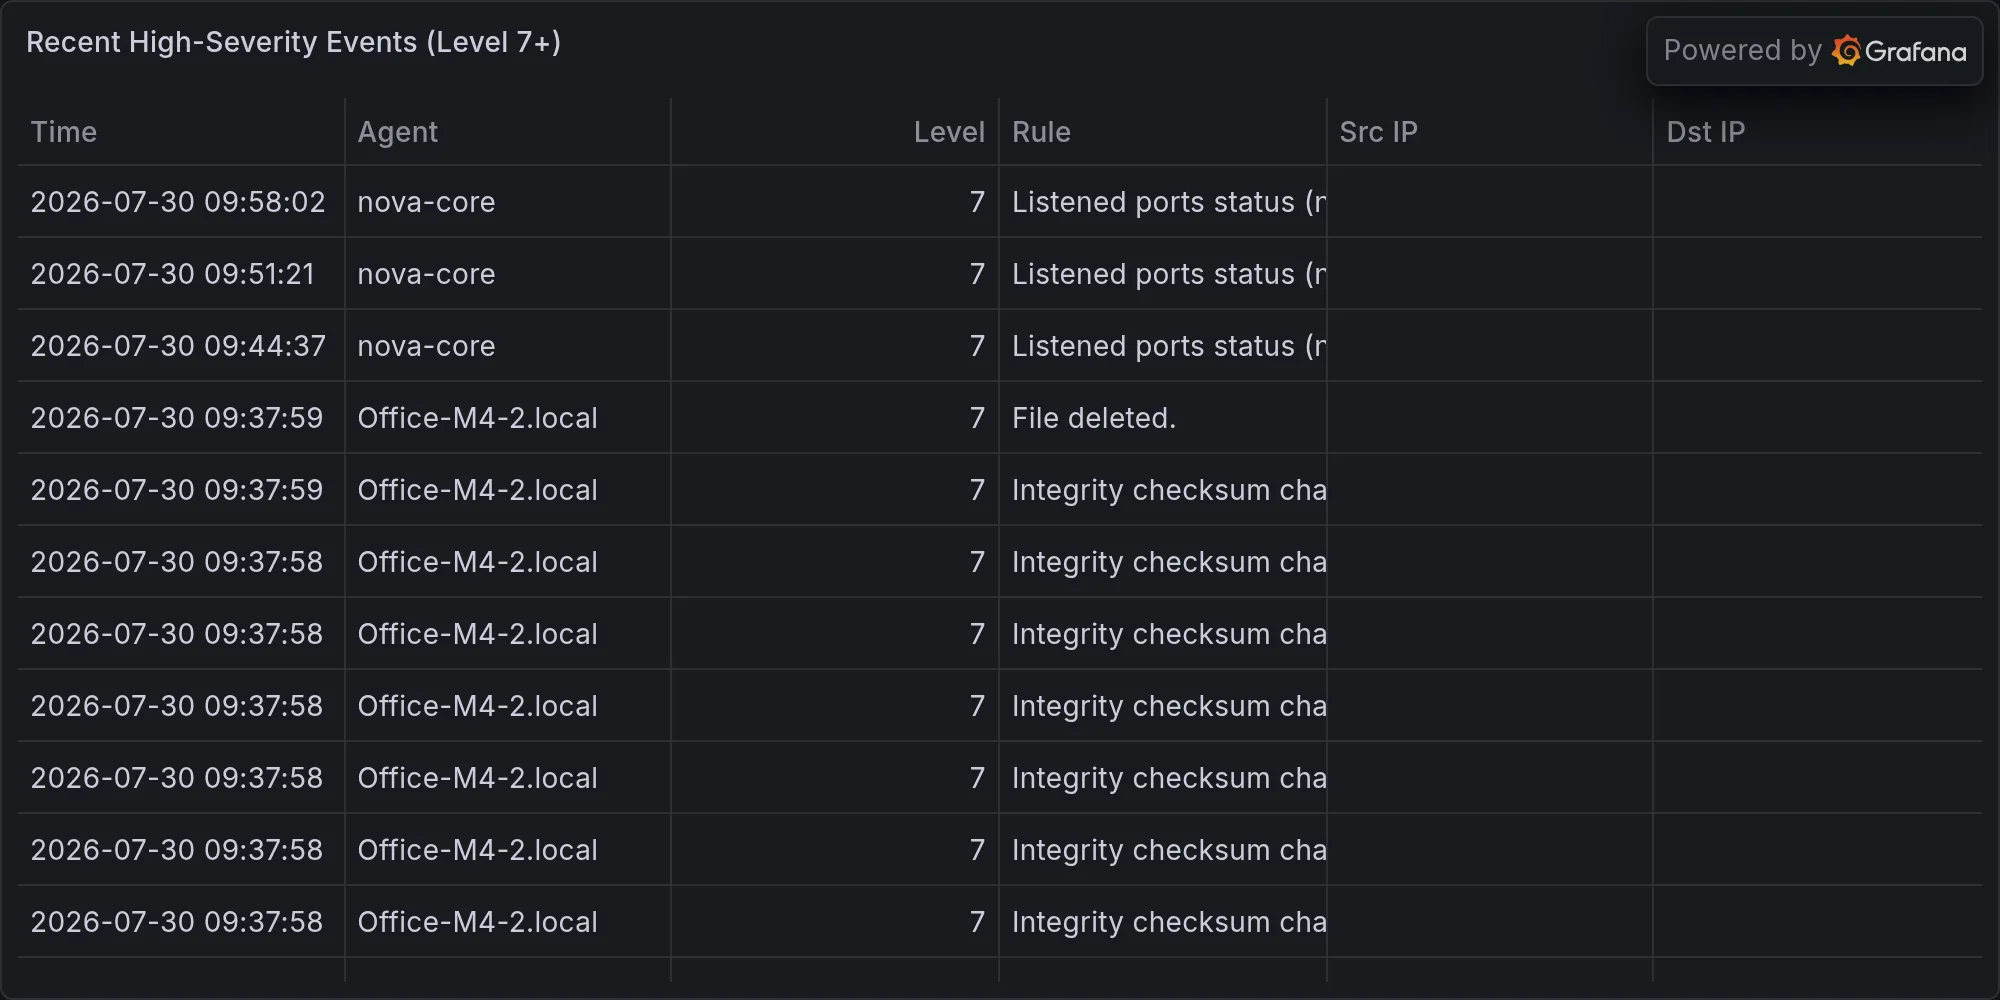
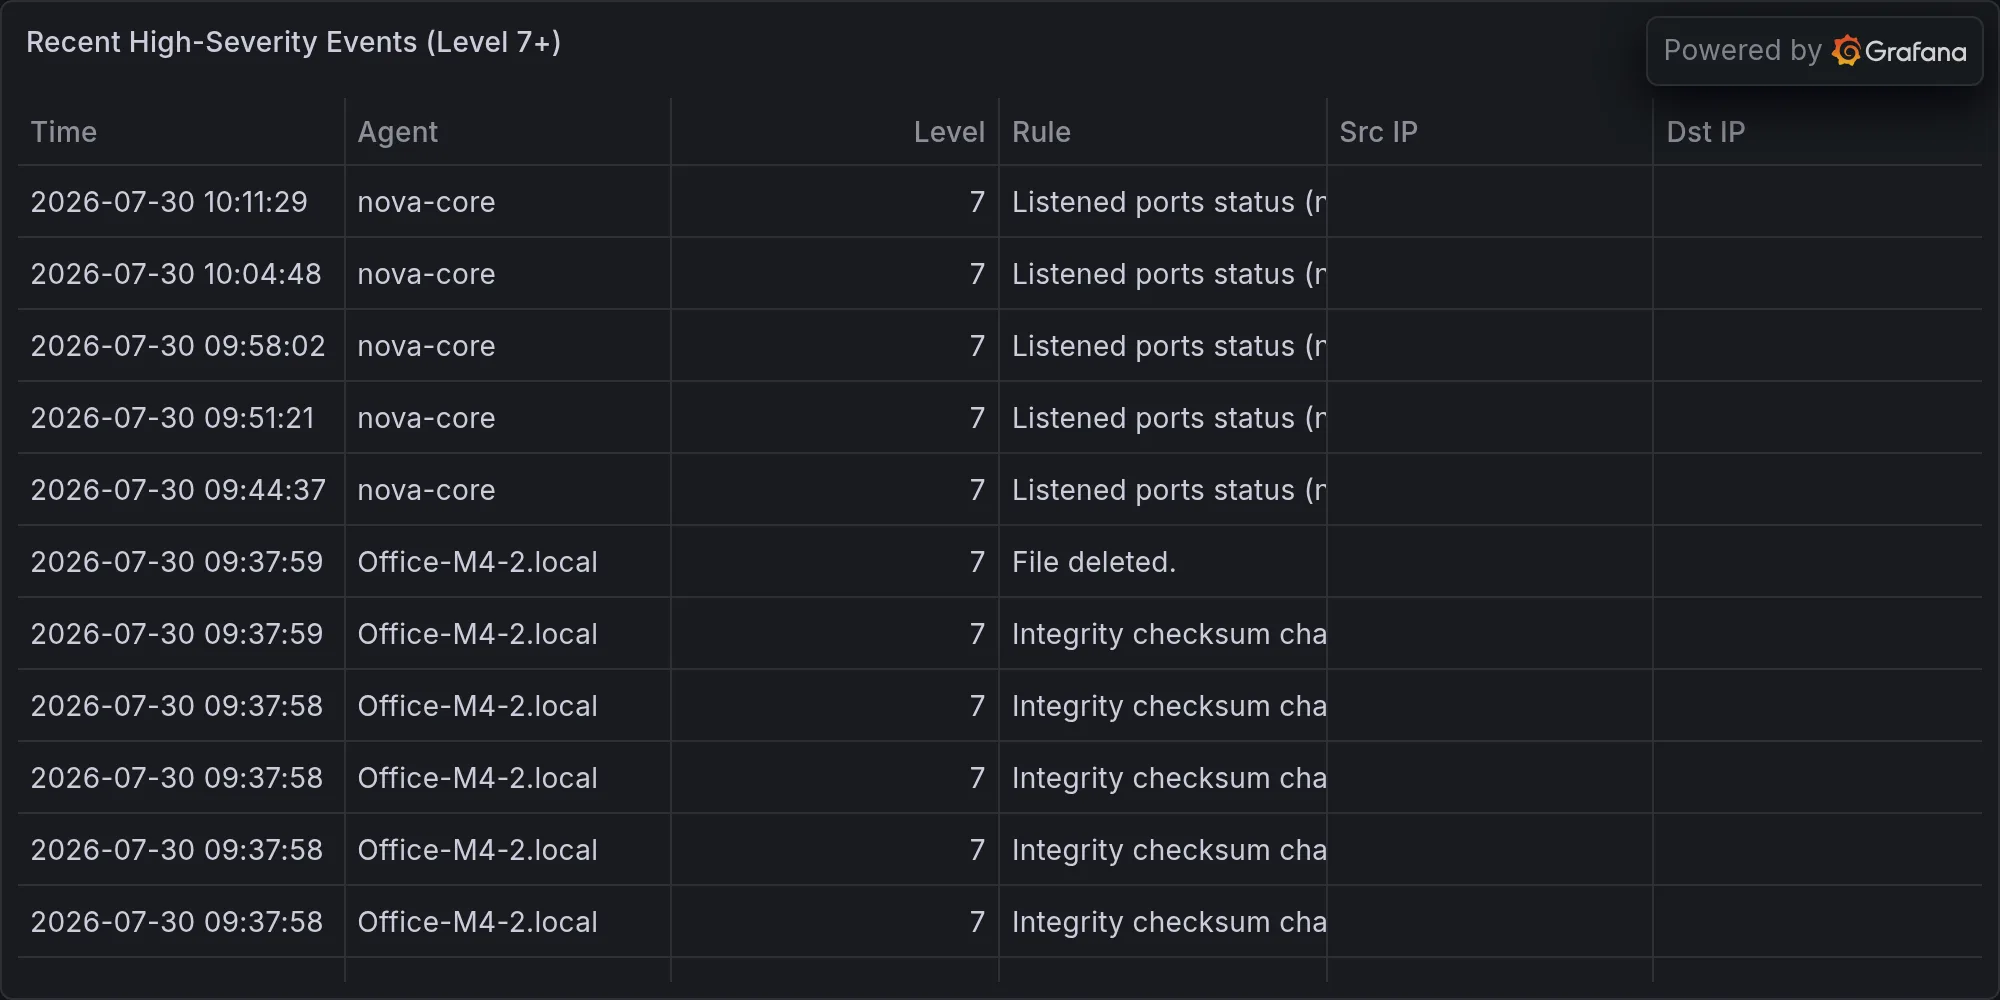
security: 2026-07-30 — **CISCO FMC STATIC CREDENTIALS FLAW ACTIVELY EXPLO

diff --git a/content/operations/2026-07-30-cisco-fmc-static-credentials-flaw-actively-exploited-cve-202.md b/content/operations/2026-07-30-cisco-fmc-static-credentials-flaw-actively-exploited-cve-202.md
@@ -1,0 +1,53 @@
+---
+title: "🛡 **CISCO FMC STATIC CREDENTIALS FLAW ACTIVELY EXPLOITED — CVE-2026-20316**"
+date: 2026-07-30T10:15:22-07:00
+draft: false
+categories: ["operations"]
+tags: ["breaking-alert", "soc-prime-cve-2026-20316", "security"]
+description: "BREAKING: SOC Prime: CVE-2026-20316"
+cover:
+  image: "/images/operations/2026-07-30-cisco-fmc-static-credentials-flaw-actively-exploited-cve-202.webp"
+  alt: "**CISCO FMC STATIC CREDENTIALS FLAW ACTIVELY EXPLOITED — CVE-2026-20316**"
+  relative: false
+---
+
+*Published Thursday, July 30, 2026 at 10:15 AM PT*
+
+![**CISCO FMC STATIC CREDENTIALS FLAW ACTIVELY EXPLOITED — CVE-2026-20316**](/images/operations/2026-07-30-cisco-fmc-static-credentials-flaw-actively-exploited-cve-202.webp)
+
+**BLUF:** Cisco Secure Firewall Management Center (FMC) contains a critical vulnerability (CVE-2026-20316) caused by hardcoded static credentials for a low-privileged account. Attackers are actively exploiting this flaw to gain unauthenticated remote access and extract sensitive data. Organizations running Cisco FMC must apply emergency patches immediately.
+
+**DETAILS**
+- **Vulnerability:** Static credentials embedded in Cisco FMC allow unauthenticated remote login.
+- **Exploitation Status:** Active exploitation confirmed; attacks are in the wild.
+- **Attack Vector:** Unauthenticated remote attacker can sign into affected appliances directly.
+- **Access Gained:** Successful login enables access to sensitive data stored or managed by FMC; specific data types not detailed in available advisories.
+- **Fix Available:** Cisco released emergency hot fixes; patched versions available as of this alert date.
+
+**IMPACT**
+- **Direct Scope:** All organizations running Cisco Secure Firewall Management Center (FMC) software without the patch are vulnerable.
+- **Exposure:** Unauthenticated access means no credentials required — any actor on the network or internet-facing instance can attempt login.
+- **Confidentiality Risk:** High. Compromise exposes firewall configuration, security policies, logs, and potentially upstream network intelligence.
+- **Operational Risk:** FMC is a central security control; compromise may indicate broader network security posture degradation.
+
+**RECOMMENDED ACTIONS**
+1. **Immediate:** Identify all Cisco FMC appliances in your environment (on-premises, cloud-hosted, or hybrid).
+2. **Urgent:** Check Cisco security advisories for affected version ranges and patch availability; apply patches as soon as tested.
+3. **Triage:** If patching cannot be done immediately, isolate FMC from untrusted network access; restrict management access to VPN or on-premises only.
+4. **Detection:** Review FMC access logs and firewall syslog for anomalous login activity, especially failed/successful logins from unexpected sources.
+5. **Hunt:** If compromised, investigate what configurations, policies, or logs were accessed or modified.
+
+**UNCERTAINTY FLAG**
+- Specific affected version range not confirmed in provided details.
+- CVSS score and remediation timeline not available.
+- Scope of "sensitive data" is not explicitly defined.
+
+**SOURCES**
+- SOC Prime: CVE-2026-20316 — Actively Exploited Cisco FMC Flaw Exposes Sensitive Data
+- Cisco emergency patch advisory (referenced in SOC Prime brief)
+
+---
+
+**Recent high-severity events at publish time:**
+
+![Recent high-severity events](/images/operations/2026-07-30-breaking-alert-posture.webp)
